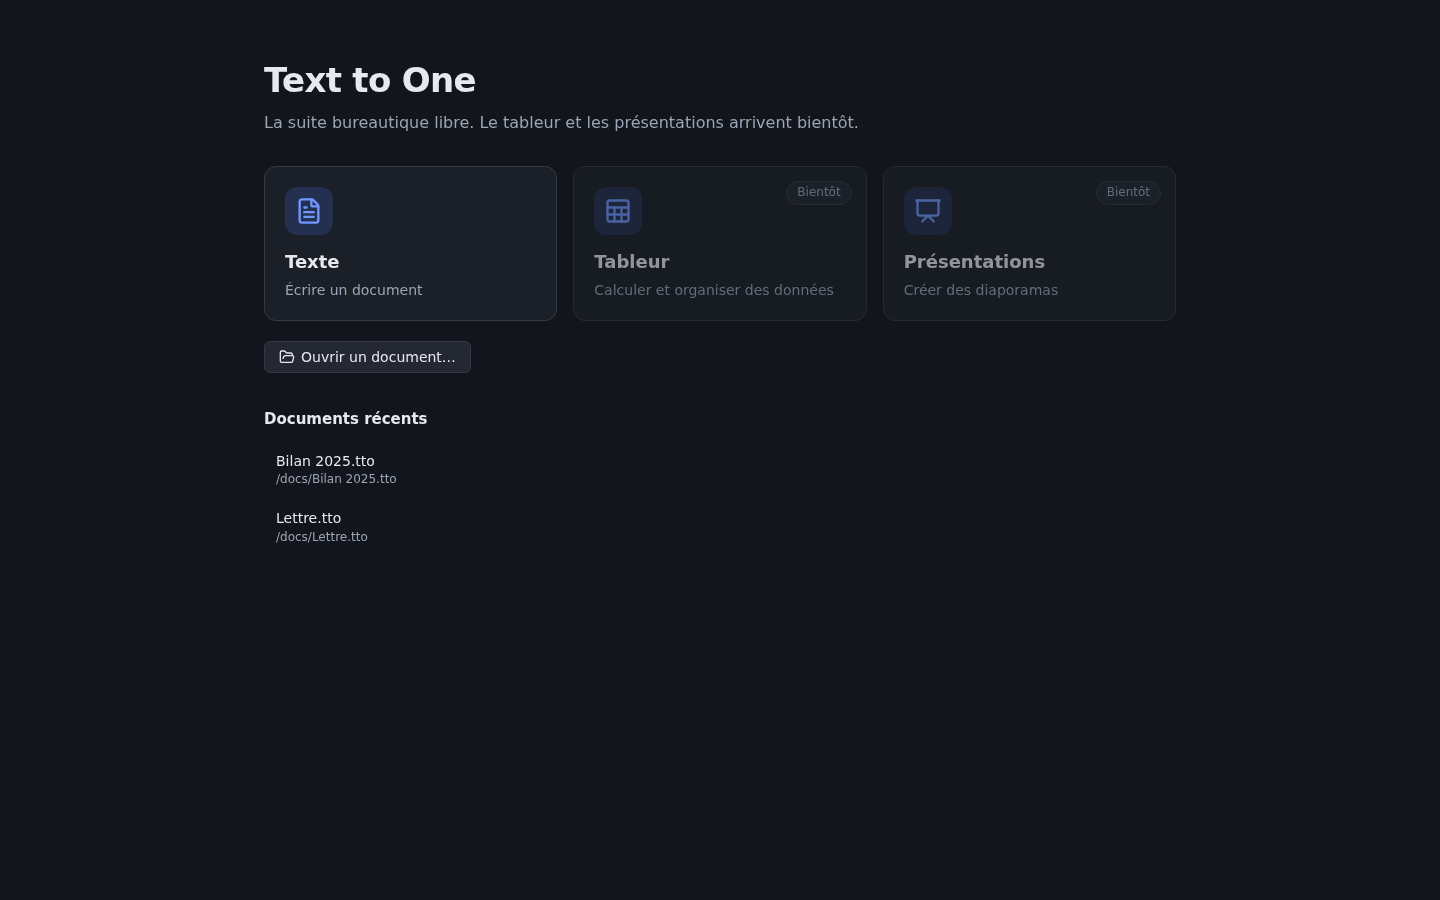
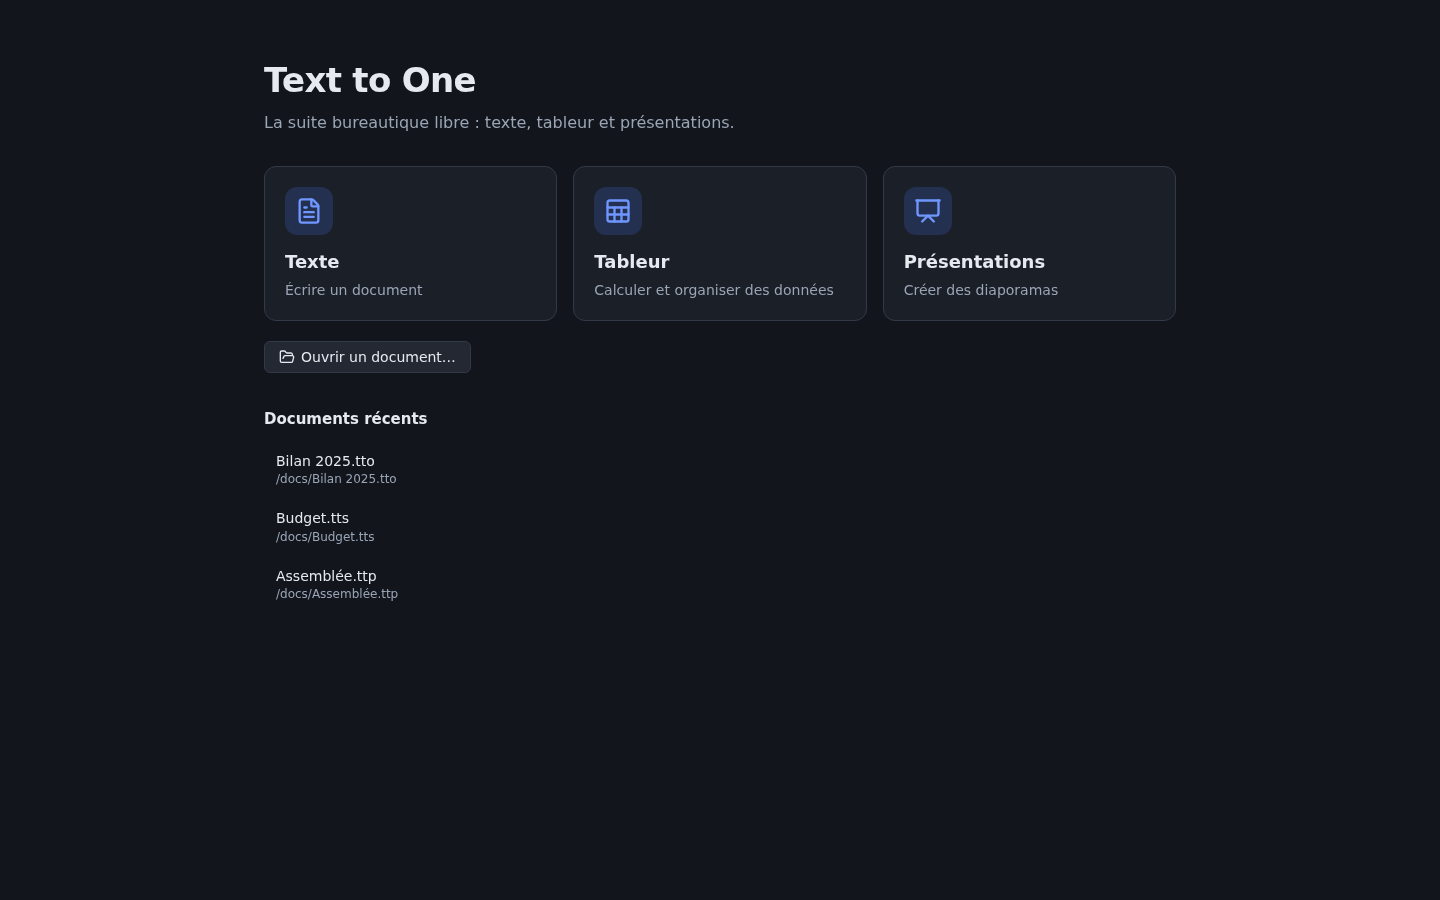
Suite complète : accueil à trois applications, menus testés, captures et README

diff --git a/tests/main/menu.test.ts b/tests/main/menu.test.ts
@@ -1,0 +1,117 @@
+import { describe, expect, it, vi } from 'vitest';
+
+// Le faux Menu rend le modèle tel quel : on peut alors le parcourir et « cliquer » sur chaque entrée.
+vi.mock('electron', () => ({ Menu: { buildFromTemplate: (modèle: unknown) => modèle } }));
+
+import type { MenuItemConstructorOptions } from 'electron';
+import { construireMenu, type MenuDeps } from '../../src/main/menu';
+import { MENU_ACTIONS, isMenuAction, type MenuAction } from '../../src/shared/bridge';
+import type { AppKind } from '../../src/shared/kinds';
+
+type Modèle = MenuItemConstructorOptions[];
+
+function fabriquer(app: AppKind | null) {
+  const actions: MenuAction[] = [];
+  const nouveaux: AppKind[] = [];
+  const appels = { ouvrir: 0, imprimer: 0, aPropos: 0, codeSource: 0, récent: [] as string[] };
+  const deps: MenuDeps = {
+    récents: [{ path: '/docs/a.tto', name: 'a.tto' }],
+    envoyer: (a) => actions.push(a),
+    nouveau: (t) => nouveaux.push(t),
+    ouvrir: () => appels.ouvrir++,
+    ouvrirRécent: (c) => appels.récent.push(c),
+    imprimer: () => appels.imprimer++,
+    àPropos: () => appels.aPropos++,
+    codeSource: () => appels.codeSource++,
+    développement: false,
+    app,
+  };
+  return { modèle: construireMenu(deps) as unknown as Modèle, actions, nouveaux, appels };
+}
+
+/** Toutes les entrées d'un menu, sous-menus compris. */
+function entrées(modèle: Modèle): MenuItemConstructorOptions[] {
+  return modèle.flatMap((e) => [e, ...(Array.isArray(e.submenu) ? entrées(e.submenu) : [])]);
+}
+const titres = (modèle: Modèle) => modèle.map((m) => m.label);
+const libellés = (modèle: Modèle) => entrées(modèle).map((e) => e.label).filter(Boolean);
+
+/** Clique sur chaque entrée qui a une action et relève ce qu'elle envoie. */
+function cliquerTout(app: AppKind | null) {
+  const { modèle, actions, nouveaux, appels } = fabriquer(app);
+  for (const entrée of entrées(modèle)) (entrée.click as undefined | (() => void))?.();
+  return { modèle, actions, nouveaux, appels };
+}
+
+describe('menus de chaque application', () => {
+  it("n'envoie à la fenêtre que des actions qu'elle connaît", () => {
+    for (const app of [null, 'text', 'sheet', 'slides'] as const) {
+      const { actions } = cliquerTout(app);
+      for (const a of actions) expect(isMenuAction(a), `${app}: ${a}`).toBe(true);
+    }
+  });
+
+  it('a un menu propre à chaque application', () => {
+    expect(titres(fabriquer(null).modèle)).toEqual(['Fichier', 'Affichage', 'Aide']);
+    expect(titres(fabriquer('text').modèle)).toEqual(['Fichier', 'Édition', 'Insertion', 'Format', 'Affichage', 'Aide']);
+    expect(titres(fabriquer('sheet').modèle)).toEqual(['Fichier', 'Édition', 'Format', 'Insertion', 'Affichage', 'Aide']);
+    expect(titres(fabriquer('slides').modèle)).toEqual(['Fichier', 'Édition', 'Insertion', 'Diapositive', 'Format', 'Affichage', 'Aide']);
+  });
+
+  it("propose à chaque application ses exports, et seulement les siens", () => {
+    const exports = (app: AppKind) => cliquerTout(app).actions.filter((a) => a.startsWith('file:export-')).sort();
+    expect(exports('text')).toEqual(['file:export-docx', 'file:export-html', 'file:export-md', 'file:export-pdf', 'file:export-txt']);
+    expect(exports('sheet')).toEqual(['file:export-csv', 'file:export-xlsx']);
+    expect(exports('slides')).toEqual(['file:export-pdf', 'file:export-pptx']);
+    expect(exports('sheet')).not.toContain('file:export-docx');
+  });
+
+  it("n'expose les actions d'une application que dans sa fenêtre", () => {
+    const préfixes = (app: AppKind | null) => new Set(cliquerTout(app).actions.map((a) => a.split(':')[0]));
+    expect(préfixes('sheet').has('slides')).toBe(false);
+    expect(préfixes('slides').has('sheet')).toBe(false);
+    expect(préfixes('text').has('sheet')).toBe(false);
+    expect(préfixes('text').has('slides')).toBe(false);
+    expect(préfixes(null).has('format')).toBe(false);
+    expect(cliquerTout('sheet').actions).toContain('sheet:insert-row');
+    expect(cliquerTout('slides').actions).toContain('slides:present');
+    expect(libellés(fabriquer('sheet').modèle)).toContain('Format des nombres');
+    expect(libellés(fabriquer('slides').modèle)).toContain('Présenter');
+  });
+
+  it('permet de créer les trois types de documents depuis tous les menus', () => {
+    for (const app of [null, 'text', 'sheet', 'slides'] as const) {
+      expect(cliquerTout(app).nouveaux.sort(), String(app)).toEqual(['sheet', 'slides', 'text']);
+    }
+  });
+
+  it('ouvre les documents récents et les boîtes de dialogue', () => {
+    const { appels } = cliquerTout('text');
+    expect(appels.ouvrir).toBe(1);
+    expect(appels.récent).toEqual(['/docs/a.tto']);
+    expect(appels.imprimer).toBe(1);
+    expect(appels.aPropos).toBe(1);
+    expect(appels.codeSource).toBe(1);
+  });
+
+  it("n'enregistre pas deux fois les raccourcis que l'éditeur gère lui-même", () => {
+    for (const app of ['text', 'sheet', 'slides'] as const) {
+      const affichés = entrées(fabriquer(app).modèle).filter((e) => ['CmdOrCtrl+Z', 'CmdOrCtrl+Y', 'CmdOrCtrl+B', 'CmdOrCtrl+I'].includes(String(e.accelerator)));
+      expect(affichés.length, app).toBeGreaterThan(0);
+      for (const e of affichés) expect(e.registerAccelerator, `${app} ${e.label}`).toBe(false);
+    }
+  });
+
+  it('a des identifiants uniques dans chaque menu, et toutes les actions déclarées sont utilisées quelque part', () => {
+    const utilisées = new Set<string>();
+    for (const app of [null, 'text', 'sheet', 'slides'] as const) {
+      const ids = entrées(fabriquer(app).modèle).map((e) => e.id).filter(Boolean);
+      expect(new Set(ids).size, String(app)).toBe(ids.length);
+      for (const a of cliquerTout(app).actions) utilisées.add(a);
+    }
+    // 'app:save-and-close' est envoyée par la fenêtre elle-même à la fermeture, jamais par un menu.
+    // Les actions de vue et de mise en forme du texte sont couvertes par le menu du traitement de texte.
+    const inutilisées = MENU_ACTIONS.filter((a) => !utilisées.has(a) && a !== 'app:save-and-close');
+    expect(inutilisées).toEqual([]);
+  });
+});

diff --git a/tests/ui/captures.spec.ts b/tests/ui/captures.spec.ts
@@ -1,4 +1,8 @@
-import { test } from '@playwright/test';
+import { test, type Page } from '@playwright/test';
+import { emptySheet, type SheetDoc } from '../../src/formats/sheet/model';
+import { packSheet } from '../../src/formats/sheet/tts';
+import { forme, nouvelleDiapo, zoneDeTexte, type SlidesDoc } from '../../src/formats/slides/model';
+import { packSlides } from '../../src/formats/slides/ttp';
 import { packTto } from '../../src/formats/tto';
 import { sampleDoc } from '../formats/sample-doc';
 import { installerFauxPont } from './fake-bridge';
@@ -6,18 +10,60 @@ import { installerFauxPont } from './fake-bridge';
 // Ces captures illustrent le README. Elles ne se font que sur demande : CAPTURES=1 npm run test:ui
 test.skip(!process.env.CAPTURES, 'captures seulement sur demande');
 
+const budget: SheetDoc = {
+  ...emptySheet(),
+  cells: { A1: 'Produit', B1: 'Quantité', C1: 'Prix', D1: 'Total', A2: 'Stylos', B2: '120', C2: '1,5', D2: '=B2*C2', A3: 'Cahiers', B3: '45', C3: '3,2', D3: '=B3*C3', A4: 'Classeurs', B4: '18', C4: '7,9', D4: '=B4*C4', A5: 'Total', D5: '=SOMME(D2:D4)', A7: 'Marge (15 %)', D7: '=D5*0,15' },
+  styles: {
+    ...Object.fromEntries(['A1', 'B1', 'C1', 'D1'].map((a) => [a, { b: true, f: '#1971c2', c: '#ffffff', ...(a === 'A1' ? {} : { a: 'right' as const }) }])),
+    C2: { n: 'eur' }, C3: { n: 'eur' }, C4: { n: 'eur' }, D2: { n: 'eur' }, D3: { n: 'eur' }, D4: { n: 'eur' },
+    A5: { b: true }, D5: { b: true, n: 'eur', f: '#fff3bf' }, D7: { n: 'eur', i: true },
+  },
+  colWidths: { '0': 140, '3': 130 },
+};
+
+function présentation(): SlidesDoc {
+  const s1 = nouvelleDiapo('title');
+  Object.assign(s1.objects[0], { text: 'Bilan 2025' });
+  Object.assign(s1.objects[1], { text: 'Assemblée générale' });
+  const s2 = nouvelleDiapo('content');
+  Object.assign(s2.objects[0], { text: 'Nos résultats' });
+  Object.assign(s2.objects[1], { text: "• Chiffre d'affaires : +12 %\n• Nouveaux clients : 340\n• Satisfaction : 94 %", w: 520 });
+  const cercle = forme('ellipse', 640, 170, 240, 240);
+  Object.assign(cercle, { fill: '#f59f00', text: '+12 %' });
+  Object.assign(cercle.style, { size: 48, bold: true });
+  s2.objects.push(cercle);
+  const s3 = nouvelleDiapo('blank');
+  s3.background = '#1d2330';
+  s3.objects.push(zoneDeTexte(80, 200, 800, 120, 'Merci !', { size: 80, bold: true, align: 'center', color: '#ffffff' }));
+  return { slides: [s1, s2, s3] };
+}
+
+const ouvrir = async (page: Page, nom: string, octets: Uint8Array) => {
+  await installerFauxPont(page, { init: { type: 'file', file: { path: `/docs/${nom}`, name: nom, bytes: Array.from(octets) } } });
+  await page.goto('/');
+};
+
 for (const thème of ['light', 'dark'] as const) {
   test(`captures du thème ${thème}`, async ({ page }) => {
     await page.emulateMedia({ colorScheme: thème });
-    await installerFauxPont(page, { recents: [{ path: '/docs/Bilan 2025.tto', name: 'Bilan 2025.tto' }, { path: '/docs/Lettre.tto', name: 'Lettre.tto' }] });
+    await installerFauxPont(page, { recents: [{ path: '/docs/Bilan 2025.tto', name: 'Bilan 2025.tto' }, { path: '/docs/Budget.tts', name: 'Budget.tts' }, { path: '/docs/Assemblée.ttp', name: 'Assemblée.ttp' }] });
     await page.goto('/');
     await page.screenshot({ path: `docs/captures/accueil-${thème}.png` });
 
-    const éditeur = await page.context().newPage();
-    await éditeur.emulateMedia({ colorScheme: thème });
-    await installerFauxPont(éditeur, { init: { type: 'file', file: { path: '/docs/Bilan 2025.tto', name: 'Bilan 2025.tto', bytes: Array.from(packTto(sampleDoc)) } } });
-    await éditeur.goto('/');
-    await éditeur.locator('.ProseMirror h1').waitFor();
-    await éditeur.screenshot({ path: `docs/captures/editeur-${thème}.png` });
+    await ouvrir(page, 'Bilan 2025.tto', packTto(sampleDoc));
+    await page.locator('.ProseMirror h1').waitFor();
+    await page.screenshot({ path: `docs/captures/editeur-${thème}.png` });
+
+    await ouvrir(page, 'Budget.tts', packSheet(budget));
+    await page.locator('.sg-cell').first().waitFor();
+    await page.locator('.sg-cell[data-r="4"][data-c="3"]').click();
+    await page.locator('.sg-cell[data-r="1"][data-c="1"]').click({ modifiers: ['Shift'] });
+    await page.screenshot({ path: `docs/captures/tableur-${thème}.png` });
+
+    await ouvrir(page, 'Assemblée.ttp', packSlides(présentation()));
+    await page.locator('.stage-canvas .obj').first().waitFor();
+    await page.locator('.thumb').nth(1).click();
+    await page.locator('.stage-canvas .obj-shape').click();
+    await page.screenshot({ path: `docs/captures/presentation-${thème}.png` });
   });
 }

diff --git a/src/main/index.ts b/src/main/index.ts
@@ -73,7 +73,7 @@ async function démarrer(): Promise<void> {
       type: 'info',
       title: 'À propos',
       message: fr.app,
-      detail: `Version ${app.getVersion()}\n\nTraitement de texte libre, sous licence GPL-3.0.\nLe tableur et les présentations arrivent bientôt.\n\n${URL_DÉPÔT}`,
+      detail: `Version ${app.getVersion()}\n\nSuite bureautique libre (texte, tableur et présentations), sous licence GPL-3.0.\n\n${URL_DÉPÔT}`,
       buttons: ['Fermer', 'Code source'],
       defaultId: 0,
     });

diff --git a/README.md b/README.md
@@ -1,33 +1,47 @@
 # Text to One
 
-Un traitement de texte libre pour Windows et Linux.
+Une suite bureautique libre pour Windows et Linux : un traitement de texte, un tableur et un logiciel de présentations.
 
-![Text to One, thème clair](docs/captures/editeur-light.png)
+![Écran d'accueil de Text to One](docs/captures/accueil-light.png)
 
-Text to One est le premier logiciel d'une future suite bureautique libre.
-**Le tableur et les présentations arrivent bientôt.**
+| Application | Ouvre | Enregistre et exporte |
+| --- | --- | --- |
+| **Texte** | `.tto`, Word (`.docx`) | `.tto`, Word, PDF, page web, texte brut, Markdown |
+| **Tableur** | `.tts`, Excel (`.xlsx`), CSV | `.tts`, Excel, CSV |
+| **Présentations** | `.ttp` | `.ttp`, PowerPoint (`.pptx`), PDF |
 
-| Application | État |
-| --- | --- |
-| Texte | disponible |
-| Tableur | bientôt |
-| Présentations | bientôt |
+Tout est en français : les menus, l'interface, les noms de fonctions du tableur (`SOMME`, `SI`, `NB.SI`…), le correcteur orthographique.
 
-## Ce qu'il sait faire
+## Texte
+
+![Le traitement de texte](docs/captures/editeur-light.png)
 
 - **Écrire** : titres, gras, italique, souligné, barré, exposant, indice, listes à puces, numérotées et à cocher, alignement, interligne, police, taille, couleurs, surlignage, liens, images, tableaux (avec fusion de cellules), citations, lignes de séparation, sauts de page.
-- **Confort** : rechercher et remplacer, compteur de mots, zoom, thèmes clair et sombre, correcteur orthographique français, enregistrement automatique avec récupération après un plantage, documents récents.
-- **Fichiers** : format propre `.tto` sans aucune perte ; ouverture des fichiers Word (`.docx`) ; export en `.docx`, PDF, page web, texte brut et Markdown.
+- **Confort** : rechercher et remplacer, compteur de mots, zoom, correcteur orthographique français, enregistrement automatique avec récupération après un plantage, documents récents.
+- **Word** : texte, titres, listes, tableaux, images, gras, italique, souligné, barré, couleurs, alignement. Pas de colonnes, zones de texte, styles personnalisés, suivi des modifications, en-têtes, pieds de page ni notes de bas de page : Text to One le signale à l'ouverture. Les anciens fichiers `.doc` ne sont pas pris en charge.
+- **Pas encore là** : en-têtes et pieds de page, table des matières, notes de bas de page, vraie découpe en pages à l'écran (les sauts de page n'existent qu'à l'impression et dans le PDF).
 
-![Text to One, thème sombre](docs/captures/editeur-dark.png)
+## Tableur
 
-### Ce qui n'est pas encore là
+![Le tableur](docs/captures/tableur-light.png)
 
-Les en-têtes et pieds de page, la table des matières, les notes de bas de page, les onglets et la vraie découpe en pages à l'écran (les sauts de page n'existent qu'à l'impression et dans le PDF).
+- **Formules en français** grâce au moteur libre [HyperFormula](https://hyperformula.handsontable.com) : plus de 380 fonctions (`SOMME`, `MOYENNE`, `SI`, `ET`, `NB.SI`, `ARRONDI`, `CONCATENER`…), références relatives et absolues (`$A$1`), plages, calcul automatique.
+- **Feuille** : 200 lignes et 26 colonnes au départ, qui grandissent quand on descend ou qu'on insère ; seules les cellules visibles sont affichées, donc les grandes feuilles restent fluides.
+- **Édition** : saisie dans la cellule ou dans la barre de formule, sélection au clavier et à la souris, statistiques de la sélection (nombre, somme, moyenne), copier-couper-coller (les références des formules se décalent), recopier vers le bas (`Ctrl+D`), insertion et suppression de lignes et de colonnes (les formules suivent), largeur de colonne réglable, annuler et rétablir.
+- **Mise en forme** : gras, italique, alignement, couleur du texte et du fond, formats de nombres (entier, deux décimales, pourcentage, euro).
+- **Excel et CSV** : les formules sont traduites entre le français et l'anglais dans les deux sens. Le CSV se lit et s'écrit à la française (`;`, virgule décimale, accents).
+- **Limites** : une seule feuille par classeur (les autres sont ignorées avec un avertissement), pas de graphiques, pas de cellules fusionnées, pas de dates à l'import Excel (elles restent des nombres), pas d'export PDF.
 
-### À propos de Word
+## Présentations
 
-Text to One lit et écrit les fichiers `.docx` : texte, titres, listes, tableaux, images, gras, italique, souligné, barré, couleurs, alignement. Il ne reprend pas les colonnes, les zones de texte, les styles personnalisés, le suivi des modifications, les en-têtes, les pieds de page ni les notes de bas de page, et il le signale à l'ouverture. Les anciens fichiers `.doc` ne sont pas pris en charge : enregistre-les d'abord en `.docx`.
+![Les présentations](docs/captures/presentation-light.png)
+
+- **Diapositives** en 16/9 : volet de miniatures, trois mises en page (titre, titre et contenu, vide), ajouter, dupliquer, supprimer, réordonner, fond en couleur.
+- **Objets** : zones de texte, rectangles, ellipses (avec du texte), images. On les déplace, on les redimensionne avec les poignées, on écrit dedans en double-cliquant, on les met au premier plan ou à l'arrière-plan, on les duplique (`Ctrl+D`).
+- **Mise en forme** : taille, gras, italique, souligné, alignement, couleurs du texte, du remplissage et du contour.
+- **Présenter** en plein écran (`F5`) : flèches, espace ou clic pour avancer, Échap pour quitter.
+- **PowerPoint** : l'export écrit un vrai `.pptx`. Text to One ne sait pas encore *ouvrir* un fichier PowerPoint.
+- **Pas encore là** : animations, transitions, notes de l'orateur, thèmes, texte avec plusieurs styles dans une même zone, formes autres que le rectangle et l'ellipse.
 
 ## Installer
 
@@ -43,13 +57,13 @@ Il faut Node.js 22 ou plus récent.
 ```bash
 npm install
 npm start            # fabrique puis lance l'application
-npm test             # tests des formats, du contrôleur, de la recherche et des fichiers
+npm test             # tests des formats, du tableur, des présentations, du contrôleur et des fichiers
 npm run test:ui      # tests de l'interface dans un navigateur
 npm run test:e2e     # tests de la vraie application (demande un écran)
 npm run dist         # fabrique les installateurs dans release/
 ```
 
-L'éditeur repose sur [TipTap](https://tiptap.dev) (ProseMirror), l'export Word sur [docx](https://docx.js.org), et l'application sur [Electron](https://www.electronjs.org).
+Le texte repose sur [TipTap](https://tiptap.dev) (ProseMirror) et [docx](https://docx.js.org) pour l'export Word, le tableur sur [HyperFormula](https://hyperformula.handsontable.com), les présentations sur [pptxgenjs](https://gitbrent.github.io/PptxGenJS/) pour l'export PowerPoint, et l'application sur [Electron](https://www.electronjs.org).
 
 ## Licence
 
